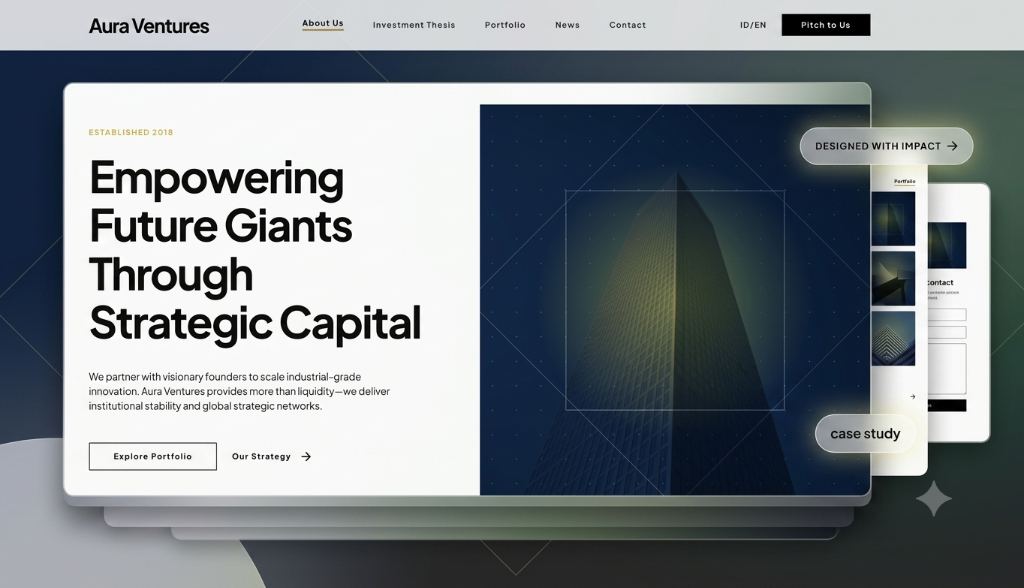
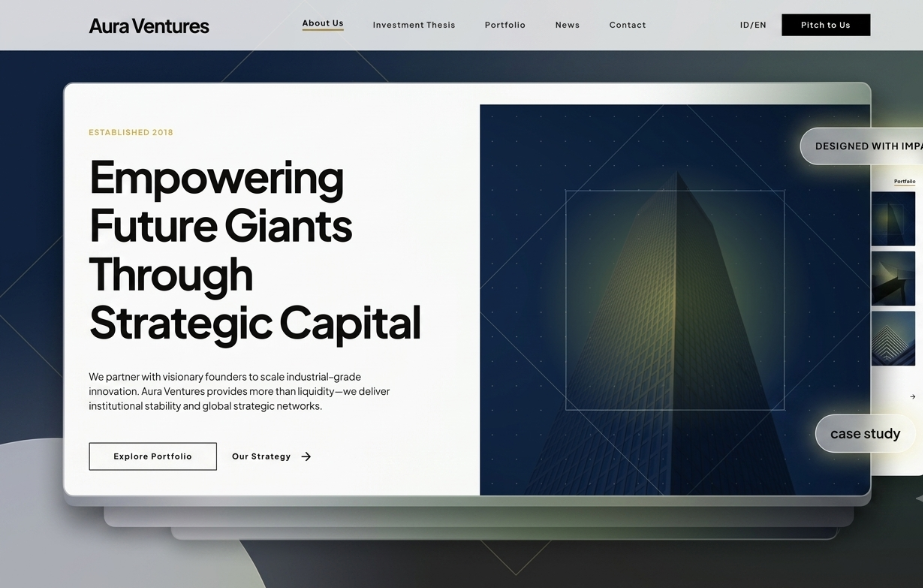
portfolio commit

diff --git a/index.html b/index.html
@@ -313,7 +313,7 @@ void main() {
   <header class="fixed top-0 w-full z-50 bg-surface/60 backdrop-blur-xl border-b border-outline-variant/30 shadow-sm">
     <nav
       class="flex justify-between items-center max-w-container-max mx-auto px-margin-mobile md:px-margin-desktop h-20">
-      <a class="font-headline-lg text-headline-lg font-bold tracking-tighter text-on-surface" href="#">Panjo</a>
+      <a class="font-headline-lg text-headline-lg font-bold tracking-tighter text-on-surface" href="#">Azis Panjo</a>
       <div class="hidden md:flex items-center gap-stack-lg">
         <a class="text-on-surface-variant hover:text-on-surface transition-colors font-body-md text-body-md"
           href="#projects">Projects</a>
@@ -768,37 +768,38 @@ void main() {
         <div class="grid grid-cols-1 md:grid-cols-3 gap-stack-lg">
           <div class="glass-card p-stack-lg rounded-2xl reveal">
             <span class="material-symbols-outlined text-primary mb-stack-md">format_quote</span>
-            <p class="font-body-md text-on-surface-variant mb-stack-lg">"Panjo is a rare talent who understands
-              both the technical constraints and the creative possibilities of the web."</p>
+            <p class="font-body-md text-on-surface-variant mb-stack-lg">"Panjo consistently shows strong curiosity and
+              dedication in learning front-end development. His projects demonstrate creativity and attention to user
+              experience."</p>
             <div class="flex items-center gap-stack-md">
               <div class="w-10 h-10 rounded-full bg-surface-container"></div>
               <div>
-                <div class="font-bold">Sarah Jenkins</div>
-                <div class="text-caption text-on-surface-variant">CTO, Nexus Tech</div>
+                <div class="font-bold">Mutia Liza</div>
+                <div class="text-caption text-on-surface-variant">Peer Feedback</div>
               </div>
             </div>
           </div>
           <div class="glass-card p-stack-lg rounded-2xl reveal delay-100">
             <span class="material-symbols-outlined text-secondary mb-stack-md">format_quote</span>
-            <p class="font-body-md text-on-surface-variant mb-stack-lg">"The level of precision in the asset management
-              system he built exceeded our expectations. Clean code and great UI."</p>
+            <p class="font-body-md text-on-surface-variant mb-stack-lg">"His interfaces are visually appealing and
+              responsive across devices. The overall user experience feels clean and well organized."</p>
             <div class="flex items-center gap-stack-md">
               <div class="w-10 h-10 rounded-full bg-surface-container"></div>
               <div>
-                <div class="font-bold">Marcus Thorne</div>
-                <div class="text-caption text-on-surface-variant">Product Manager</div>
+                <div class="font-bold">Fajar Ramadhan</div>
+                <div class="text-caption text-on-surface-variant">Project Collaboration</div>
               </div>
             </div>
           </div>
           <div class="glass-card p-stack-lg rounded-2xl reveal delay-200">
             <span class="material-symbols-outlined text-tertiary mb-stack-md">format_quote</span>
-            <p class="font-body-md text-on-surface-variant mb-stack-lg">"Working with Panjo was seamless. He has a great
-              eye for detail and delivers on time without compromising quality."</p>
+            <p class="font-body-md text-on-surface-variant mb-stack-lg">"Panjo has a good eye for detail and continues
+              improving his skills through hands-on projects and continuous learning."</p>
             <div class="flex items-center gap-stack-md">
               <div class="w-10 h-10 rounded-full bg-surface-container"></div>
               <div>
-                <div class="font-bold">Elena Rodriguez</div>
-                <div class="text-caption text-on-surface-variant">Art Director</div>
+                <div class="font-bold">Akbar Maulana</div>
+                <div class="text-caption text-on-surface-variant">Learning Partner</div>
               </div>
             </div>
           </div>